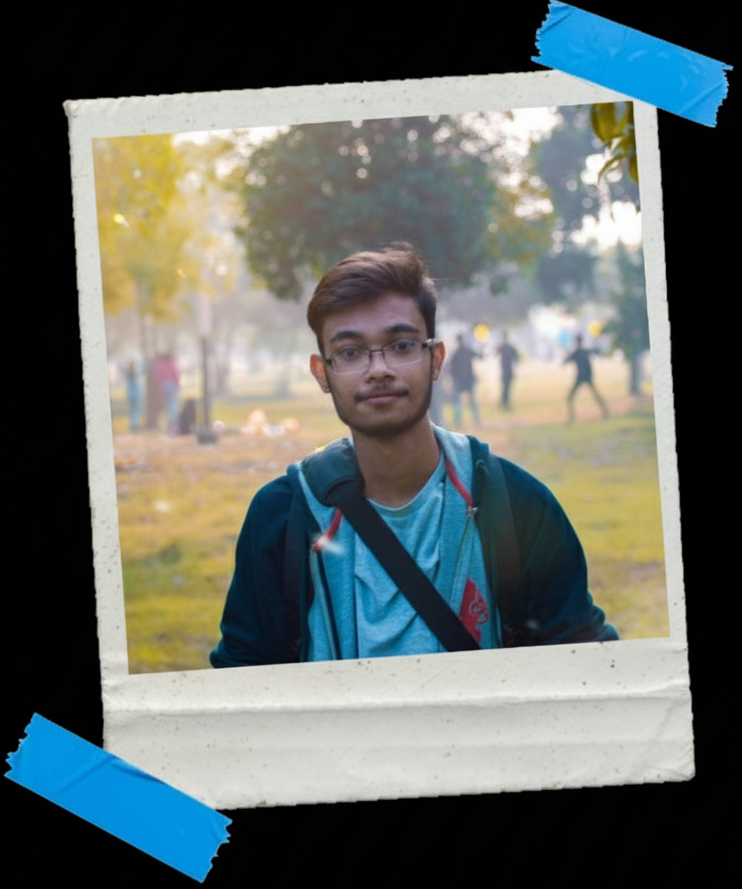
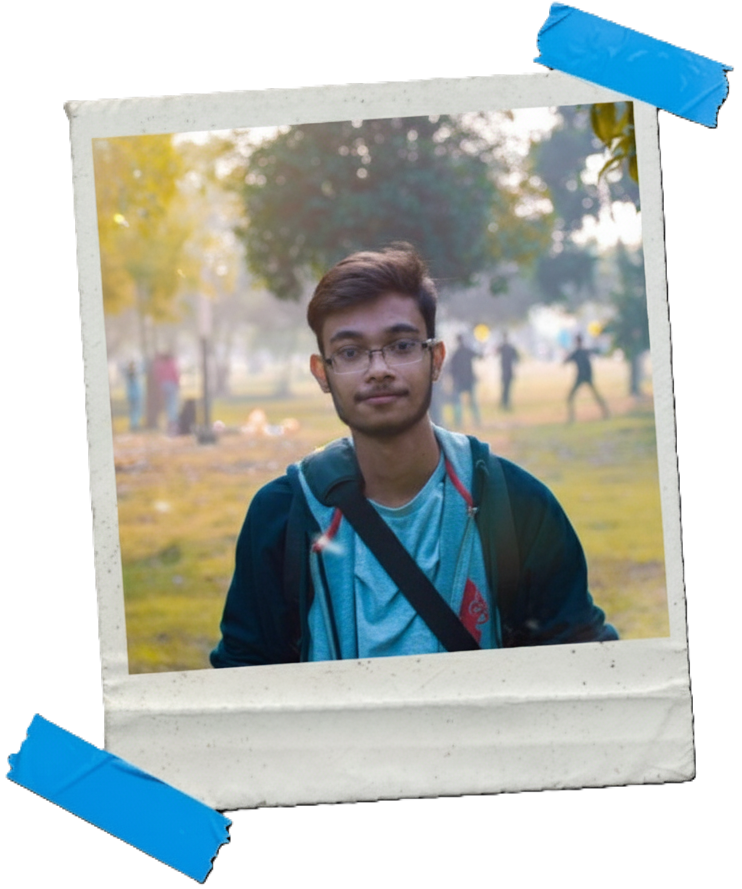
feat: added about, portfolio and contact section, added svg images for skills and updated the hero img

diff --git a/index.html b/index.html
@@ -82,8 +82,108 @@
                 </h1>
             </div>
          </section>
-    </main>
 
+         <!-- ABOUT SECTION -->
+         <a href="" class="page-anchor" id="about"></a>
+         <section id="about-section">
+            <div id="about-text-container">
+                <h2 class="red-heading about-heading">Who am I</h2>
+                <p>
+                    I'm a tech enthusiast who loves exploring and learning new technologies. I enjoy building engaging, user-friendly frontend experiences that make a real impact. Outside of coding, I spend my time exploring photography, enjoying gaming sessions, or catching up on anime.
+                </p>
+            </div>
+            <div id="about-img-conatiner">
+                <img src="images/html-logo.svg" alt="HTML Logo" class="skill-card">
+                <img src="images/css-logo.svg" alt="CSS Logo" class="skill-card">
+                <img src="images/javascript-logo.svg" alt="JavaScript Logo" class="skill-card">
+                <img src="images/react-logo.svg" alt="React Logo" class="skill-card">
+                <img src="images/redux-logo.svg" alt="Redux Logo" class="skill-card">
+                <img src="images/git-logo.svg" alt="Git Logo" class="skill-card">
+                <img src="images/github-logo.svg" alt="GitHub Logo" class="skill-card">
+            </div>
+         </section>
+
+         <!-- PORTFOLIO SECTION -->
+         <a href="" class="page-anchor" id="portfolio"></a>
+         <section id="portfolio-section">
+            <h2 class="poppins-black red-heading" id="portfolio-heading">
+              That's cool and all...
+            </h2>
+            <h3 class="poppins-bold" id="portfolio-heading-support">
+              But the stuff I'm working on is cooler!
+            </h3>
+            <div id="portfolio-container">
+              <a href="https://koustavcodes.github.io/tea-cozy/" target="_blank" rel="noopener noreferrer">
+                 <div class="portfolio-card">
+                    <div class="portfolio-card-img" id="port-1">
+                        <p class="port-text">Tea Cozy</p>
+                        <p class="port-text">Codecademy Project</p>
+                        <p class="poppins-bold port-text">Click to view!</p>
+                    </div>
+                    <p>HTML // CSS</p>
+                 </div>
+              </a>
+
+              <a href="https://todobykoustav.netlify.app/" target="_blank" rel="noopener noreferrer">
+                 <div class="portfolio-card">
+                    <div class="portfolio-card-img" id="port-2">
+                        <p class="port-text">To Do List App</p>
+                        <p class="port-text">Personal Project</p>
+                        <p class="poppins-bold port-text">Click to view!</p>
+                    </div>
+                    <p>HTML // CSS // JavaScript</p>
+                 </div>
+              </a>
+
+              <a href="https://jammming-spotify-playlist-builder.netlify.app/" target="_blank" rel="noopener noreferrer">
+                 <div class="portfolio-card">
+                    <div class="portfolio-card-img" id="port-3">
+                        <p class="port-text">Jammming Spotify Playlist Builder</p>
+                        <p class="port-text">Codecademy Project</p>
+                        <p class="poppins-bold port-text">Click to view!</p>
+                    </div>
+                    <p>HTML // CSS // JavaScript // React</p>
+                 </div>
+              </a>
+
+              <a href="https://reddit-magic-reddit-feed-viewer.netlify.app/" target="_blank" rel="noopener noreferrer">
+                 <div class="portfolio-card">
+                    <div class="portfolio-card-img" id="port-4">
+                        <p class="port-text">Reddit Magic Reddit Feed Viewer</p>
+                        <p class="port-text">Codecademy Project</p>
+                        <p class="poppins-bold port-text">Click to view!</p>
+                    </div>
+                    <p>HTML // CSS // JavaScript // React // Redux</p>
+                 </div>
+              </a>
+            </div>
+         </section>
+
+          <!-- CONTACT SECTION -->
+          <a href="" class="page-anchor" id="contact"></a>
+          <section id="contact-section">
+            <h2 class="poppins-black red-heading" id="contact-heading">
+              Let's work together
+            </h2>
+            <div id="contact-container">
+                <div id="contact-info-container">
+                  <p>
+                      <i class="fa-solid fa-envelope fa-xl icon" style="color: #ed4f4f"></i><strong>Email:</strong>
+                      koustavsarkarcoding@gmail.com
+                  </p>
+                  <p>
+                      <i class="fa-brands fa-github fa-xl icon" style="color: #ed4f4f"></i><strong>GitHub:</strong>
+                      <a href="https://github.com/koustav28" id="github-link" target="_blank" rel="noopener noreferrer">github.com/koustav28</a>
+                  </p>
+                </div>
+                <img src="images/contact-hero-img.png" alt="A drawing of the internet globe icon with a pointer icon on top." id="contact-hero-img">
+            </div>
+          </section>
+
+          <footer>
+             <p>&copy;2025 Koustav Sarkar</p>
+          </footer>
+    </main>
     <script src="script.js"></script>
   </body>
 </html>
